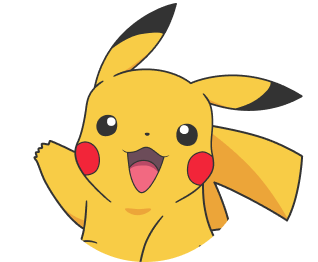
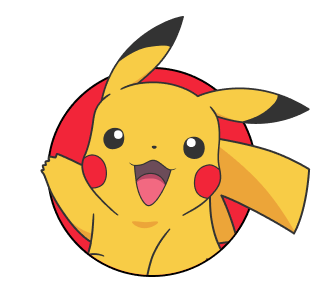
Replace welcome and detail pokemon image

diff --git a/store/pokemon.js b/store/pokemon.js
@@ -5,7 +5,8 @@ export const state = () => ({
     list: [],
     limit: 20,
     offset: 20,
-    totalItems: 0
+    totalItems: 0,
+    detail: {}
 })
 
 export const mutations = {
@@ -25,10 +26,11 @@ export const mutations = {
         } else ctxState.list.push(...mapData)
     },
     UPDATE_DETAIL(ctxState, data) {
-        const {  name, weight, height, types } = data || {}
+        debugger
+        const {  name, weight, height, types, sprites } = data || {}
         const { status } = ctxState.list.find(item => item.name == name) || {}
         ctxState.detail = {
-            name, weight, height, types, status
+            name, weight, height, types, status, image: sprites?.other.dream_world.front_default
         }
     },
     UPDATE_STATUS(ctxState, data) {

diff --git a/pages/index.vue b/pages/index.vue
@@ -2,7 +2,6 @@
 	div.welcome-view 
 		div.poke-container
 			div.welcome__image-container
-				img(src="@/assets/images/red-circle.png", alt="Welcome")
 				img(src="@/assets/images/hello-pikachu.png", alt="Welcome")
 			div.welcome__description
 				h1 Welcome to Pokédex
@@ -27,17 +26,6 @@
 		width: 100%;
 		margin: 0 auto;
 		padding-top: 40px;
-		img:first-child {
-			left: -12px;
-			bottom: 1px;
-			position: relative;
-		}
-		img:last-child {
-			position: absolute;
-			z-index: 1;
-			max-width: 210px;
-			transform: scale(1.4);
-		}
 	}
 
 	.welcome__description{

diff --git a/components/PokePokemonDetailModal.vue b/components/PokePokemonDetailModal.vue
@@ -10,8 +10,7 @@
             i.pokeicon-close-rounded
 
         div.pokemon-detail-modal__header
-            //- img(v-if="detail.image", :src="detail.image", :alt="detail.name")
-            img(src="@/assets/images/squirtle.png", :alt="detail.name")
+            img(v-if="detail.image", :src="detail.image", data-src="detail.image" :alt="detail.name", loading="eager")
         div.pokemon-detail-modal__body
             ul.body__description
                 li 

diff --git a/pages/pokemons.vue b/pages/pokemons.vue
@@ -100,6 +100,7 @@ export default {
                 name: data?.name ?? "", 
                 weight: data?.weight ?? "", 
                 height: data?.height ?? "", 
+                image: data?.sprites?.other.dream_world.front_default ?? "", 
                 types: this.transformTypesToString(data?.types), 
                 status
             }
